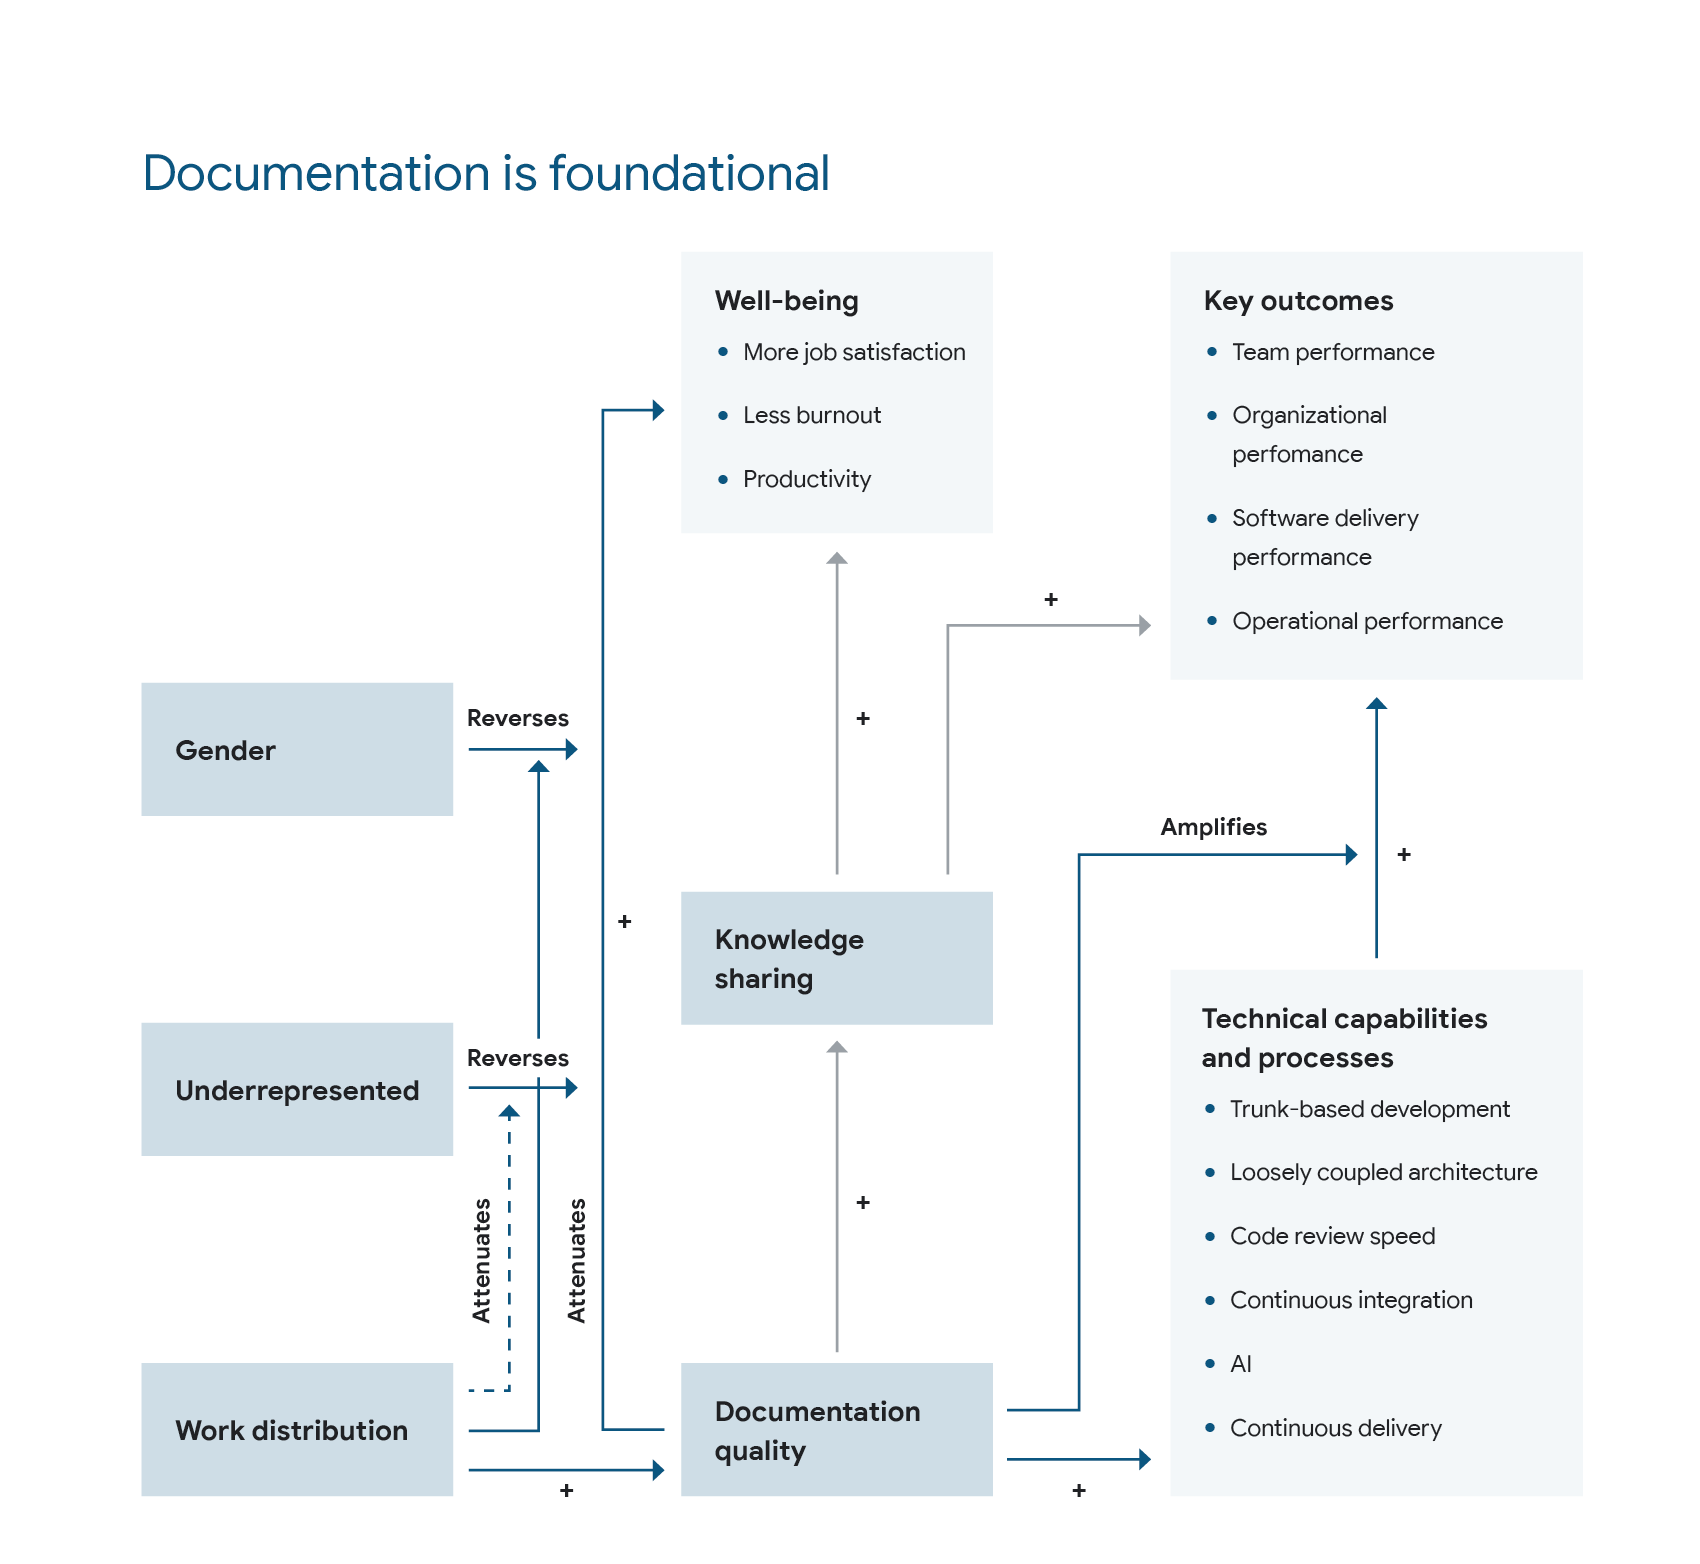
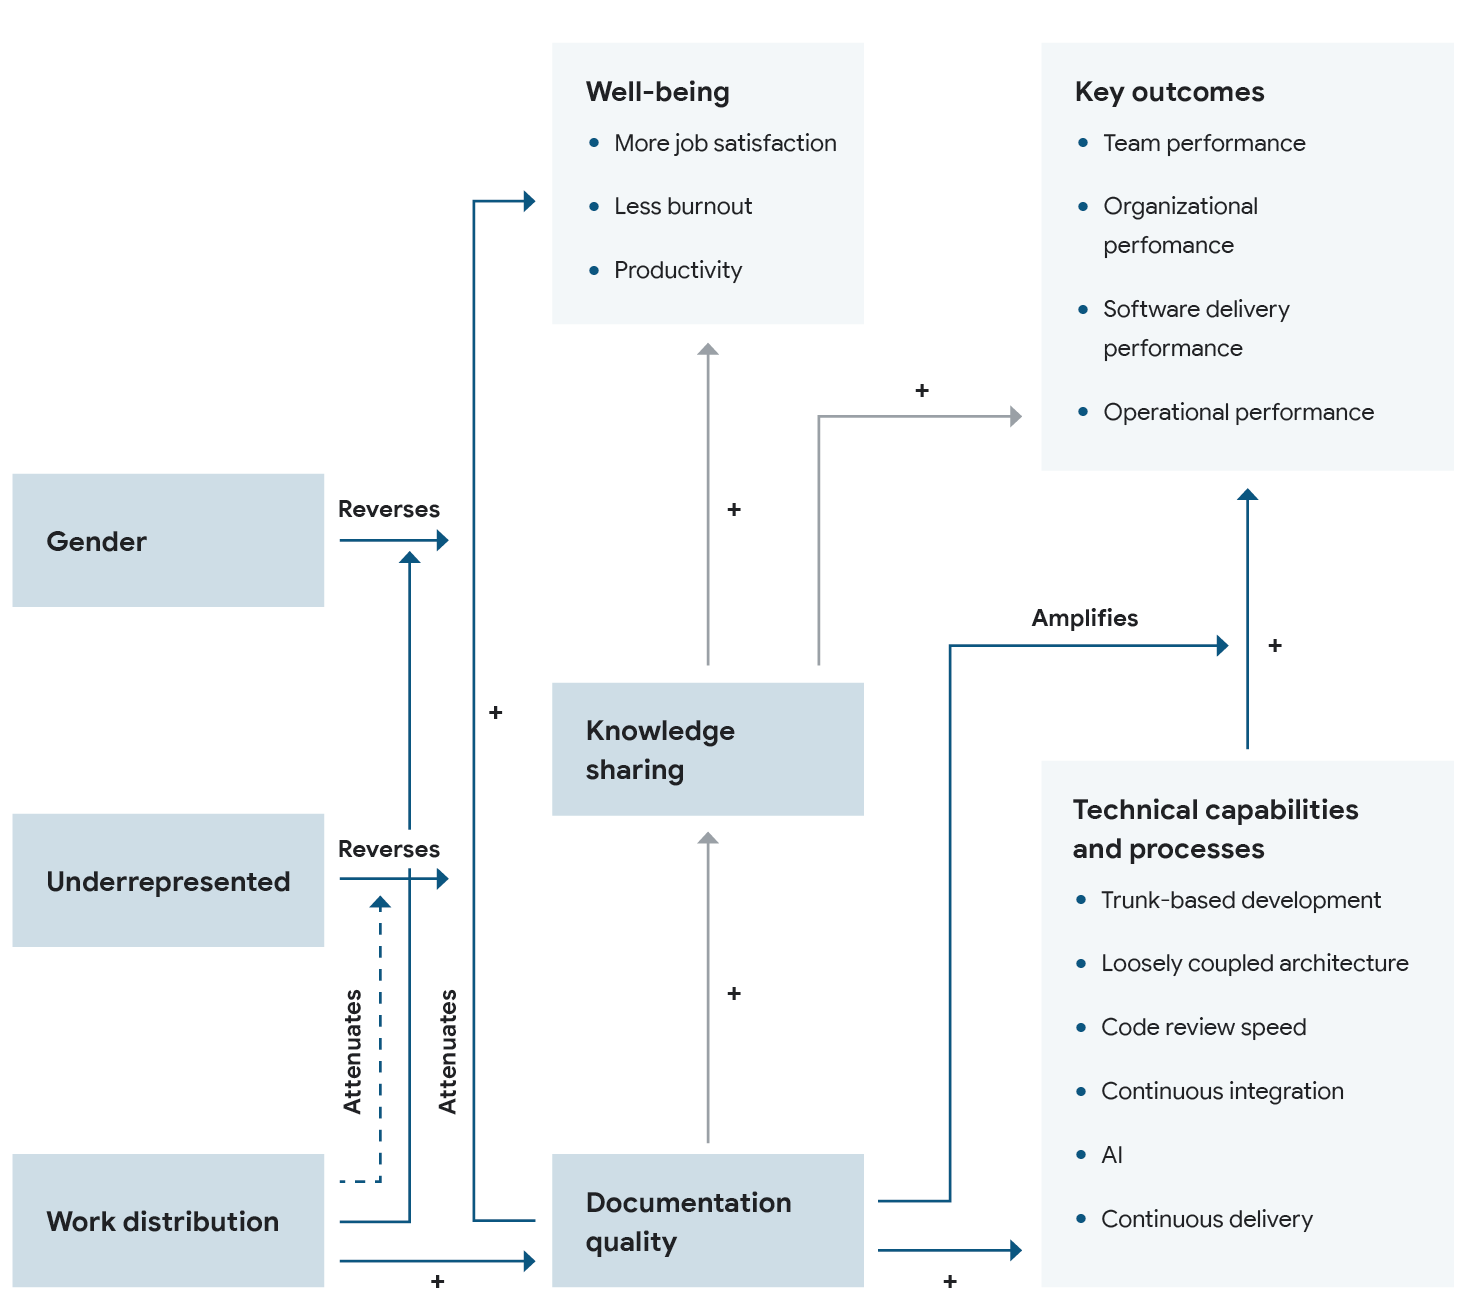
Add headings and links for each SEM in 2023  (Fixes #538)

diff --git a/hugo/assets/scss/research.scss b/hugo/assets/scss/research.scss
@@ -1,5 +1,9 @@
 @import "_variables.scss";
 
+h3 {
+    margin-top:1.5em;
+}
+
 #rotate-tip {
     display: none;
 }

diff --git a/hugo/content/research/2023/structural-equation-models/index.md b/hugo/content/research/2023/structural-equation-models/index.md
@@ -15,9 +15,20 @@ Traditionally, we created one giant model. This year we decided to break it down
 * It isn’t obvious what the benefit of a giant model is in estimating the effect of X on Y. To understand the impact of X on Y, we used directed acyclic graphs to help understand what covariates we should and shouldn’t include in the model.
 * The number of hypotheses we addressed this year would make it very difficult for the reader to make sense of the giant model. Imagine combining all the visualizations below into one visualization. 
 
-![Structural Equation Model 1](structural-equation-models-2023_01.png)
-![Structural Equation Model 2](structural-equation-models-2023_02.png)
-![Structural Equation Model 3](structural-equation-models-2023_03.png)
-![Structural Equation Model 4](structural-equation-models-2023_04.png)
-![Structural Equation Model 5](structural-equation-models-2023_05.png)
-![Structural Equation Model 6](structural-equation-models-2023_06.png)
+### 1. Technical capabilities predict performance
+<img src="structural-equation-models-2023_01.png" width="505">
+
+### 2. Documentation is foundational
+<img src="structural-equation-models-2023_02.png" width="735">
+
+### 3. Reliability unlocks performance
+<img src="structural-equation-models-2023_03.png" width="549">
+
+### 4. Flexible infrastructure is key to success
+<img src="structural-equation-models-2023_04.png" width="718">
+
+### 5. None of this works without investing in culture
+<img src="structural-equation-models-2023_05.png" width="731">
+
+### 6. How, when, and why you are matters
+<img src="structural-equation-models-2023_06.png" width="665">
